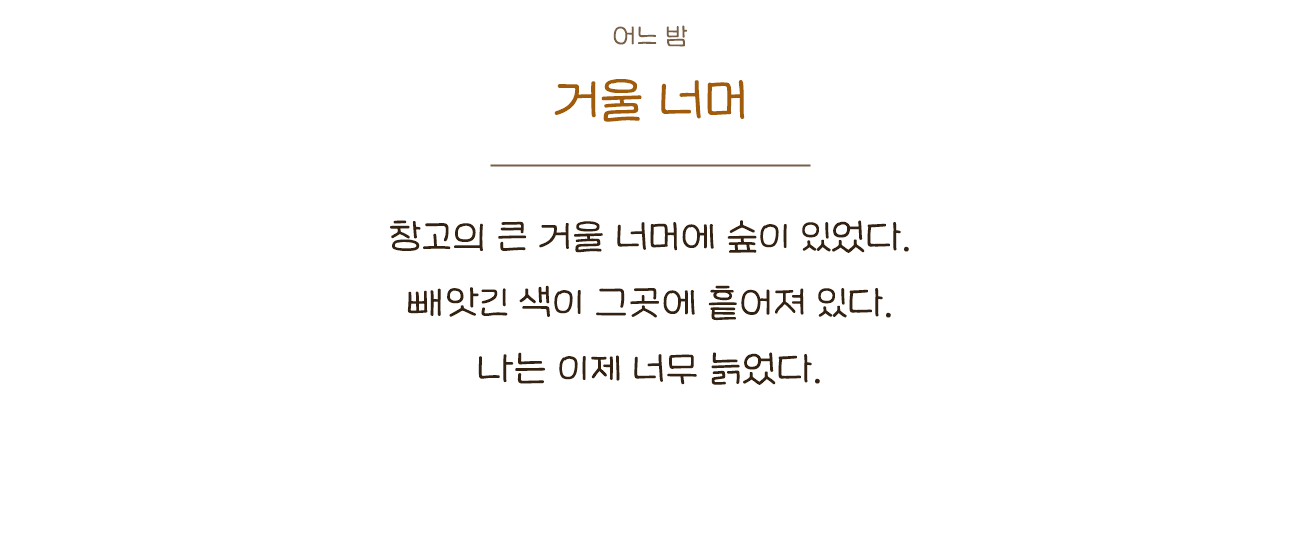
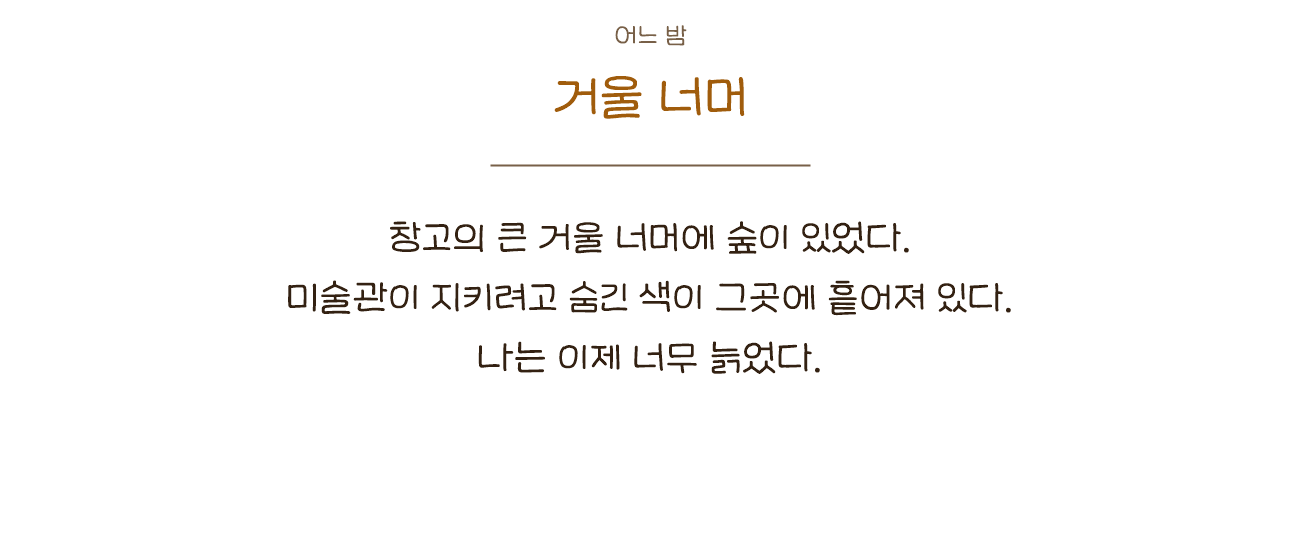
스토리 확정 반영: 일기장 2·3쪽 그림, 결말 8쪽 다시 쓰기 (부모님이 열쇠를 건네줌, 미술관이 색을 숨김)

diff --git a/docs/claude/SESSION_HANDOFF.md b/docs/claude/SESSION_HANDOFF.md
@@ -763,4 +763,5 @@ Phase 1에서 한 일 (2026-10-29):
 - (2026-11-11 사용자 요청) 무기 칸(`Canvas/WeaponSlots`)을 탄약 표시(총 그림 + 숫자) **바로 오른쪽**으로 옮겼다: 위치 (800, 58), 세로는 탄약 표시 가운데. 탄약 표시(`AmmoDisplay`)는 원래 자리(500, 36) 그대로. `Phase97WeaponSlotsSetup`도 같은 값. 확인: 사막 실행 화면에서 탄약 숫자 오른쪽에 칸 두 개가 한 줄로 보임.
 - (2026-11-11 사용자 요청) 무기 칸과 탄약 표시 자리를 서로 바꿨다: **무기 칸이 왼쪽(500, 58, 프로필 바로 옆), 탄약 표시가 그 오른쪽(742, 36)**. `Phase97WeaponSlotsSetup`도 같은 값(탄약 표시 자리는 씬 값, Phase 63 메뉴를 다시 누르면 500으로 돌아갈 수 있음). 확인: 사막 실행 화면에서 칸 두 개 → 총 그림 + 숫자 순서.
 - (2026-11-11 사용자 요청 "결말 짜줘 그리고 써줘") **결말 글 8쪽을 써서 `Assets/UI/0_EndingPages.txt`에 넣었다**(자리 표시 글을 바꿈). 바탕은 기획서 2.11(미술관을 물려받은 견습 관장, 색을 빼앗은 회색 조각상, 아홉 액자, 재개관)과 사용자가 만든 할아버지 일기장 4쪽(손님은 셋뿐, 회색이 번짐, 거울 너머 숲, "네 손으로 그린 그림이면 된다")이다. 쪽 제목은 `<size=125%>`로 크게, 본문은 짧은 3줄(일기장과 같은 담담한 "~다" 말투). 흐름: ① 아홉 번째 액자 ② 돌아온 색 ③ 조각상들 ④ 거울 너머(숲·성 마을·사막) ⑤ 할아버지의 일기장(마지막 쪽 문장을 되받음) ⑥ 대단하지 않아도 ⑦ 재개관(손님이 셋뿐이어도 좋다) ⑧ 지나온 그림들(→ 다음 쪽은 "내가 그린 그림들" 창). 확인: 미술관 실행 화면에서 1·3·8쪽이 제목+본문으로 잘 보임("n / 8"). 글은 Claude가 지은 초안이라 사용자가 메모장으로 고치면 된다.
-- (2026-11-11 사용자 요청 "스토리에서 조각상 이야기는 지우고 싶음") 결말 글에서 조각상 이야기를 지웠다: 3쪽 "조각상들"을 통째로 뺐다 → **결말은 7쪽**(아홉 번째 액자 → 돌아온 색 → 거울 너머 → 할아버지의 일기장 → 대단하지 않아도 → 재개관 → 지나온 그림들). 다른 결말 글·게임 글자에는 "조각상"이 없다. 남은 것: 사용자가 만든 일기장 그림 `Diary_02.png`("조각상들이 움직이는 걸까")와 기획서(`docs/LAST_BULLET_Plan.md` 2.11, 적 = 회색 조각상 설정)에는 아직 조각상이 있다 — 이 둘은 사용자가 직접 고쳐야 하거나 묻고 고친다.
+- (2026-11-11 사용자 결정: 할아버지는 돌아가셨고 일기만 남음 / 미술관이 색을 지키려고 숨김 / 부모님이 열쇠를 주며 미술관을 알려 줌) **스토리 확정판 반영**: `docs/claude/STORY_PLAN.md` 8장에 결정 기록. ① 일기장 2·3쪽 그림(`Diary_02/03.png`)을 새 글로 다시 만들었다(이서윤체, 원래 그림과 글자 위치·크기·색을 픽셀 단위로 맞춤, 1·4쪽은 그대로). ② 결말 글 8쪽을 새 이야기로 다시 썼다. 확인: 미술관 실행 화면에서 일기장 2·3쪽과 결말 3·4쪽이 잘 보임(결말 4쪽 긴 줄은 줄바꿈이 어색해 나눔). 남은 것: 시작 독백, 맵 소개 배너·로딩 글, 기획서 2.11 갱신, 보스 정하기.
+- (바로 앞 기록) (2026-11-11 사용자 요청 "스토리에서 조각상 이야기는 지우고 싶음") 결말 글에서 조각상 이야기를 지웠다: 3쪽 "조각상들"을 통째로 뺐다 → **결말은 7쪽**(아홉 번째 액자 → 돌아온 색 → 거울 너머 → 할아버지의 일기장 → 대단하지 않아도 → 재개관 → 지나온 그림들). 다른 결말 글·게임 글자에는 "조각상"이 없다. 남은 것: 사용자가 만든 일기장 그림 `Diary_02.png`("조각상들이 움직이는 걸까")와 기획서(`docs/LAST_BULLET_Plan.md` 2.11, 적 = 회색 조각상 설정)에는 아직 조각상이 있다 — 이 둘은 사용자가 직접 고쳐야 하거나 묻고 고친다.

diff --git a/docs/claude/STORY_PLAN.md b/docs/claude/STORY_PLAN.md
@@ -75,3 +75,21 @@
    - B. 그림자들이 거울 속에서 색을 훔쳐 갔다 → 단순하고 명확함
    - C. 오래 쓰이지 않은 미술관이 색을 지키려 숨겼다 → 서정적
 3. **보스의 정체**: 맵마다 대장 그림자 — 같은 종류의 큰 그림자 / 맵마다 다른 모습 / 새 보스 "색을 먹는 화가"를 마지막 보스로 등장시킨다 (기획안 별도).
+
+---
+
+## 8. 확정된 선택 (2026-11-11 사용자 결정)
+1. **할아버지**: **돌아가셨고 일기만 남았다.** 담담한 결말.
+2. **거울이 색을 삼킨 이유**: **오래 쓰이지 않은 미술관이 색을 지키려고 숨겼다.** 서정적. (그림자가 훔친 게 아니다 → 위의 "적" 설정은 이 방향에 맞춰 부드럽게 다듬을 것: 그림자는 거울 속 "숨겨진 색을 노리는 것들"로, 미술관이 색을 지키는 일을 방해하는 존재)
+3. **손주가 미술관을 알게 된 계기 (사용자가 새로 정함)**: **할아버지가 돌아가신 뒤 부모님이 열쇠를 건네며 미술관 이야기를 해 줘서 알게 됐다.** 그 전까지는 그런 곳이 있는 줄도 몰랐다.
+4. 보스: 사용자가 아직 고르지 않았다 → 지금은 맵마다 대장 그림자(현재 거대 돌진병 보스) 그대로.
+
+### 반영한 것
+- 일기장 2쪽 `Diary_02.png`: "그림에서 색이 조금씩 빠져나간다 / 문을 연 날보다 닫아 둔 날이 길어졌다 / 미술관이 스스로 색을 숨기려는 걸까."
+- 일기장 3쪽 `Diary_03.png`: "…미술관이 지키려고 숨긴 색이 그곳에 흩어져 있다."
+- 결말 글 8쪽(`0_EndingPages.txt`): 아홉 번째 액자 → 돌아온 색 → **미술관이 숨긴 것** → **낡은 열쇠(부모님이 말해 줌)** → 할아버지의 일기장 → 대단하지 않아도 → 재개관 → 지나온 그림들.
+
+### 아직 안 한 것 (제안)
+- **시작 독백**: 처음 미술관에 들어올 때 "열쇠를 받은 날" 이야기를 짧게 보여 주기 (지금 입구 안내판은 사용자가 쓴 개발 후기 4쪽이라 건드리지 않았다).
+- 맵 소개 배너·로딩 화면 글에 "숨겨진 색" 한 줄씩.
+- 기획서 2.11 갱신.
